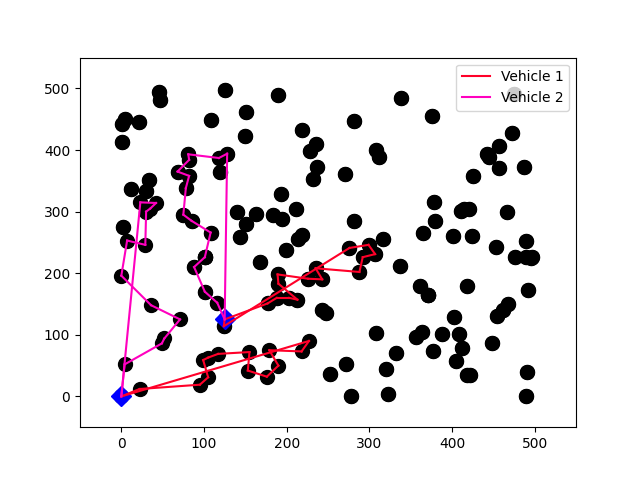
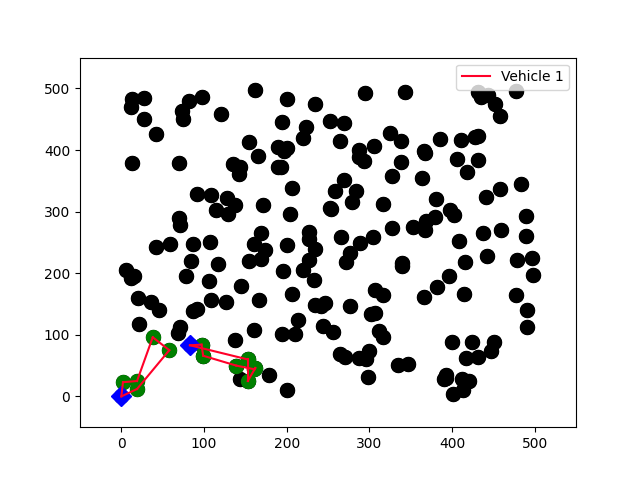
updated graphing

diff --git a/examples/vrp_multidepot_sequential.py b/examples/vrp_multidepot_sequential.py
@@ -61,9 +61,13 @@ def print_solution(data, manager, routing, solution):
     print('Maximum of the route distances: {}m'.format(max_route_distance))
 
 #graphs solution using matplotlib
-def graph_solution(data, manager, routing, solution, currdepot):
+def graph_solution(data, manager, routing, solution, visited_nodes, currdepot):
     max_route_distance = 0
     plt.plot(data['x'],data['y'],'ko',markersize=10)
+    
+    for nodedex in visited_nodes:
+        plt.plot(data['x'][nodedex],data['y'][nodedex],'go',markersize=10)
+        
     plt.plot(data['x'][0],data['y'][0],'bD',markersize=10)
     plt.xlim(0 - data['bound_length']*0.1,data['bound_length']*1.1)
     plt.ylim(0 - data['bound_length']*0.1,data['bound_length']*1.1)
@@ -177,7 +181,7 @@ def main():
         #marginal utility of first vehicle is total nodes it finds minus previously found nodes, which is none
         marginal_utility = total_visited - prev_total_visited
         
-        while((marginal_utility >= prev_marginal_utility) or (manager == None)):
+        while((marginal_utility >= prev_marginal_utility) and (manager != None)):
             prev_marginal_utility = marginal_utility
             prev_total_visited = total_visited
             prev_visited_nodes = visited_nodes
@@ -198,7 +202,7 @@ def main():
         
         print("Depot Number:", currdepot, " Number of vehicles:", data['num_vehicles'])
         
-        graph_solution(data, prevmanager, prevrouting, prevsolution, currdepot)
+        graph_solution(data, prevmanager, prevrouting, prevsolution, prev_visited_nodes, currdepot)
         
         #delete visited node coordinates in DESCENDING ORDER and increment currdepot since this depot has been completed
         #sort the visited nodes in descending order, so deletions happen from outermost to inner and don't change inner indices
